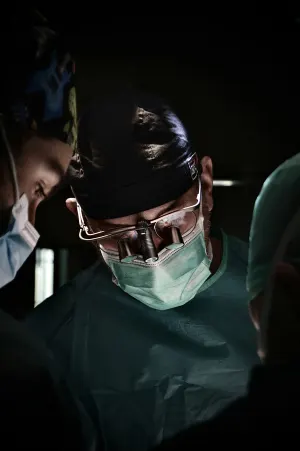
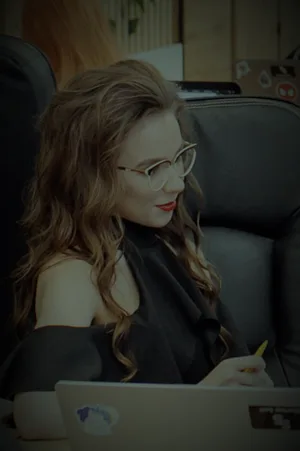
Replace the home orbit surgeon, rig and tower photos

diff --git a/components/pages/home/content.ts b/components/pages/home/content.ts
@@ -55,8 +55,8 @@ export const content: HomeContent = {
       { _key: '278a91960588', applicationType: 'Back-office Sync', image: { path: '/home/app-finance.webp', alt: 'Month-end close report' }, link: { url: '/services/back-office-sync' }, textColor: FOUNDRY },
       { _key: '6f8b0063ba12', applicationType: 'Knowledge', image: { path: '/home/app-life-sciences.webp', alt: 'Sourced answers list' }, link: { url: '/services/knowledge-agents' }, textColor: FOUNDRY },
       { _key: '139aba2ad2f1', applicationType: 'Document Intake', image: { path: '/home/app-insurance.webp', alt: 'Claim form and extracted fields' }, link: { url: '/services/document-intake' }, textColor: EVERGREEN, animationDirection: 'right' },
-      { _key: '106cd65eb545', applicationType: 'Production Rescue', image: { path: '/home/app-energy.webp', alt: 'Offshore platform at dusk' }, link: { url: '/services/production-rescue' }, textColor: FOUNDRY },
-      { _key: 'a84fabdf3395', applicationType: 'Integrations', image: { path: '/home/app-infrastructure.webp', alt: 'Network tower in a forest' }, link: { url: '/services/context-and-integrations' }, textColor: EVERGREEN, animationDirection: 'right' },
+      { _key: '106cd65eb545', applicationType: 'Production Rescue', image: { path: '/home/app-energy.webp', alt: 'Office pendant lamps at dusk' }, link: { url: '/services/production-rescue' }, textColor: FOUNDRY },
+      { _key: 'a84fabdf3395', applicationType: 'Integrations', image: { path: '/home/app-infrastructure.webp', alt: 'Office shelving and plants from above' }, link: { url: '/services/context-and-integrations' }, textColor: EVERGREEN, animationDirection: 'right' },
       { _key: 'ac4820379d42', applicationType: 'Strategy and Audit', image: { path: '/home/app-legal.webp', alt: 'Reviewed document with highlights' }, link: { url: '/services/ai-strategy-and-audit' }, textColor: EVERGREEN, animationDirection: 'right' },
       { _key: '695de232a42d', applicationType: 'Decision Scoring', image: { path: '/home/app-manufacturing.webp', alt: 'Quote check with a score' }, link: { url: '/services/scoring-and-decisions' }, textColor: PURPLE },
       { _key: '85cba285fa3f', applicationType: 'Sales and Booking', image: { path: '/home/app-retail.webp', alt: 'Orders and bookings queue' }, link: { url: '/services/sales-and-booking' }, textColor: FOUNDRY },
